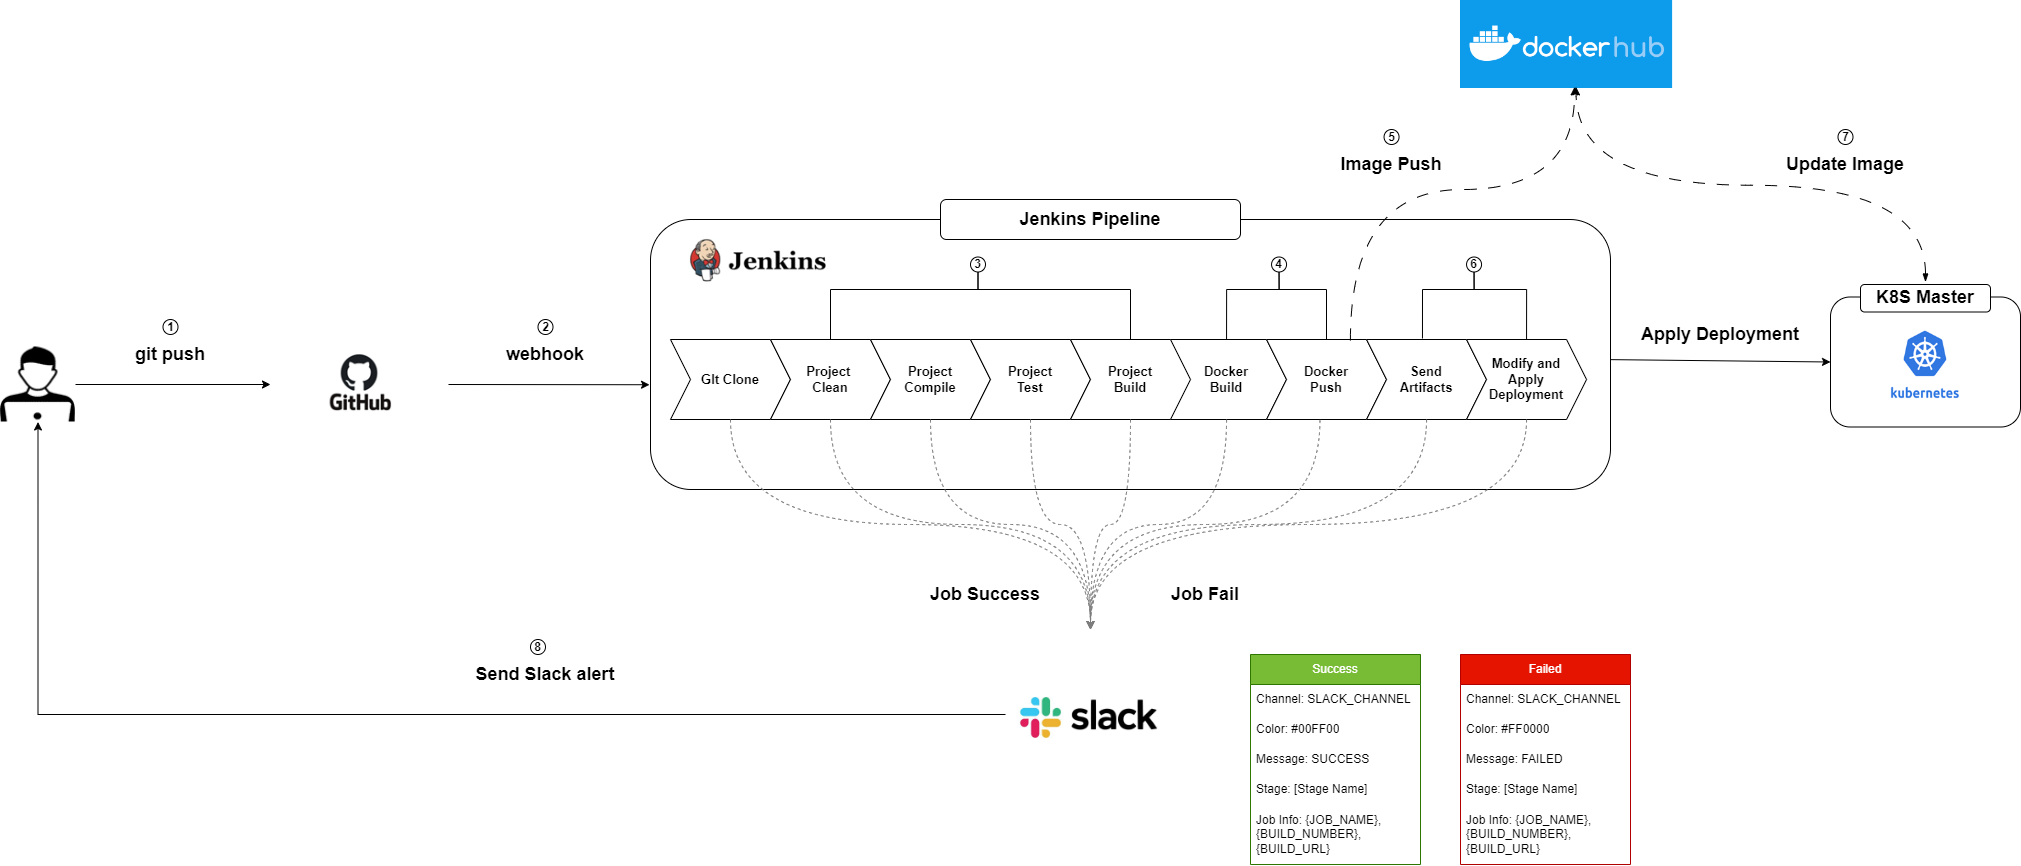
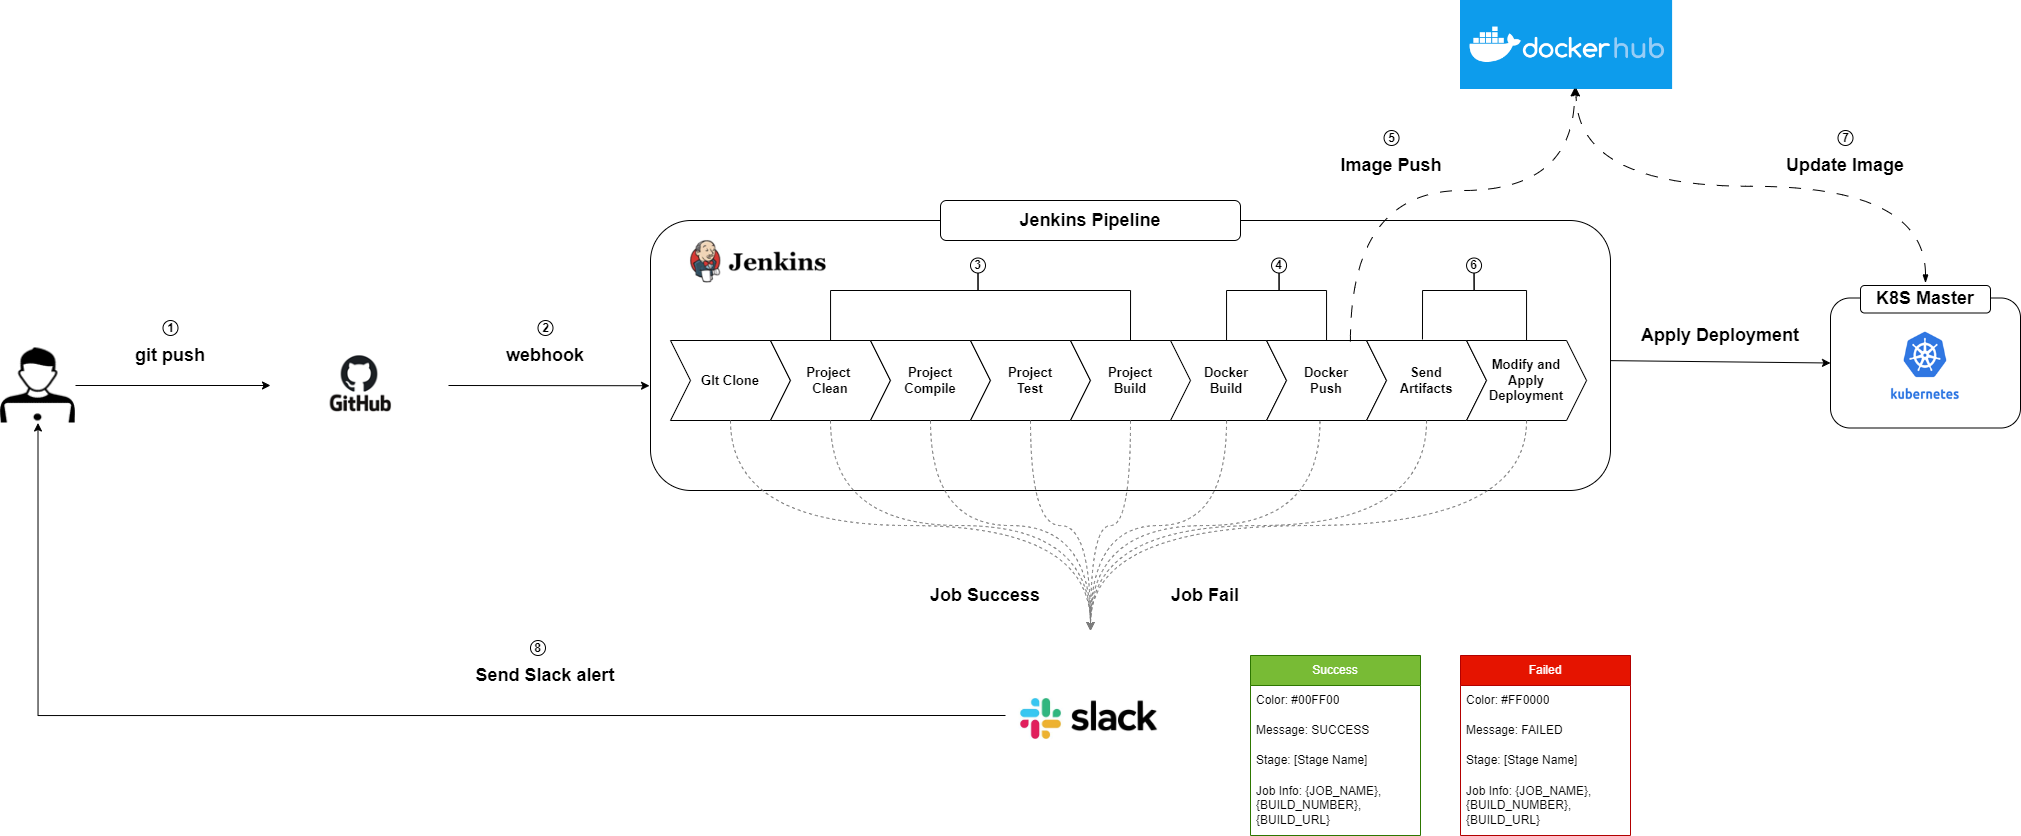
[Fix] CI/CD 리드미 파일 수정
- CI/CD 리드미 파일 수정

diff --git a/cicd/README.md b/cicd/README.md
@@ -2,24 +2,24 @@
 
 ### :sunny: **[플레이 데이터] 한화시스템 BEYOND SW캠프 2기 / Latest** :sunny:
 
-<br>
-
-<br>
+<br><br>
 
 
 
 ## 🤼♂팀원 소개
 
-<br><br>
+
 
 &nbsp;　&nbsp;　&nbsp;　&nbsp;　&nbsp;　&nbsp;　&nbsp;　&nbsp;　 🐻 **[이동규](https://github.com/PTCman)**&nbsp;　 🦁 **[양호신](https://github.com/Hosae0905)** &nbsp;　 🐶 **[김주연](https://github.com/jyk147369)** &nbsp;　 🐯 **[장대현](https://github.com/poil4291)** &nbsp;
 <br><br><br><br><br>
 
 
 ## ✔ 기술 스택
-<br>
+
 <div align="center">
-<img src="https://img.shields.io/badge/k8s-326CE5?style=for-the-badge&logo=#326CE5&logoColor=white" style="border-radius: 5px;">
+<img src="https://img.shields.io/badge/linux-FCC624?style=for-the-badge&logo=linux&logoColor=black" style="border-radius: 5px;">
+<img src="https://img.shields.io/badge/centos-262577?style=for-the-badge&logo=centos&logoColor=white" style="border-radius: 5px;">
+<img src="https://img.shields.io/badge/kubernetes-326CE5?style=for-the-badge&logo=kubernetes&logoColor=white" style="border-radius: 5px;">
 <img src="https://img.shields.io/badge/docker-2496ED?style=for-the-badge&logo=docker&logoColor=white" style="border-radius: 5px;">
 <img src="https://img.shields.io/badge/jenkins-D24939?style=for-the-badge&logo=jenkins&logoColor=white" style="border-radius: 5px;">
 <img src="https://img.shields.io/badge/git-F05032?style=for-the-badge&logo=git&logoColor=white" style="border-radius: 5px;">
@@ -30,48 +30,52 @@
 <img src="https://img.shields.io/badge/webhook-2088FF?style=for-the-badge&logo=webhook&logoColor=white" style="border-radius: 5px;">
 </div>
 <br>
-
-## 🖥 Lat32t 운영 환경
-
 <details>
     <summary>
-<span style="font-size:150%"> k8s 내부 아키텍처 </span></summary>
+<span style="font-size:150%"> 상세 기술 스택 </span></summary>
+- OS : CentOS 8, Linux
+- Container : Docker v26.0.0
+- Orchestration : Kubernetes v1.27.12
+- CNI : Calico v3.27.0
+- CI/CD : Jenkins v2.440.1
+- Monitoring : Prometheus, Grafana(dashboard_ID - 315)
+- Notification : Slack plugin
+</details>
 
+<br>
+
+## 🖥 Lat32t 운영 환경
+- CentOS 8 기반의 리눅스 가상 머신 5대로 구성된 k8s 클러스터를 구축
 - Master Node :1대
 - Worker Node: 4대
-- Node간 Connection을 위해 Calico CNI를 설치
+- k8s 클러스터 내부의 Pod 간 통신을 위한 네트워크 플러그인 위해 Calico CNI 설치
 - Service 생성시 LoadBalance Type 사용을 위해 Metallb를 설치
 - 모니터링 시스템으로 Prometheus와 Grafana 구축
 - 같은 네트워크 대역폭을 사용하여 하나의 k8s 클러스터를 구성하기 위해 네트워크 장치로 브릿지를 사용
 </br>
 <p align="center">
 <img width="80%" src="./img/k8s_system.png"></p>
-</details>
 
-<details>
-    <summary>
-<span style="font-size:150%"> k8s 전체 서비스 아키텍처 </span></summary>
-
-- 사용자가 lat32t 서비스에 접속하면 로드밸런서를 통해 화면이 보여지고 nginx 웹 서버의 프록시 설정에 따라 백엔드 서버와 통신하게 된다.
-- 사용자는 회원가입을 진행할 때 프로필 사진을 등록하게 되며 aws s3 스토리지에 저장되고 해당 이미지를 받아와서 확인할 수 있다.
-- 백엔드 서버는 nginx 웹 서버의 프록시 설정에 따라서 프론트엔드에서 요청을 받아 처리하게 된다. 이때 백엔드 서버의 설정은 미리 정의된 컨피그 맵을 통해서 이뤄진다.
-- 백엔드에서 DB와 통신을 할 경우 사전에 정의된 DB의 ClusterIP 서비스를 통해서 접근하게 되고 이때 DB 설정은 미리 정의된 컨피그맵을 통해서 이뤄진다.
-- DB는 Pod로 생성하게 되는데 이때 발생하는 데이터 휘발성 문제를 해결하기 위해 PV와 PVC를 구성하여 데이터가 휘발되는 문제를 예방한다.
-- 개발자는 개발을 진행하고 Pull Request를 작성하여 develop 브랜치에 merge가 이루어질 시 미리 지정된 젠킨스 서버로 Webhook을 진행하게 된다.
-- 젠킨스 서버에서는 사전에 작성된 파이프라인을 통해 각 프로젝트를 Build 하면서 도커 허브에 이미지를 푸쉬하는 작업을 진행하게 된다.
-- 젠킨스 파이프라인이 실행되는 동안 발생하는 성공 및 실패 이벤트는 slack 알림을 통해 개발자에게 알림이 전송된다.
+### Calico CNI
 <p align="center">
-<img width="80%" src="./img/k8s.png">
-</p>
-</details>
+<img width="80%" src="./img/cni_benchmark.jpg"><br>Calico CNI를 사용한 k8s 클러스터의 네트워크 성능 테스트 결과</p>
+- Calico CNI는 다른 k8s CNI에 비해 자원 소모량이 적어 한정적인 자원을 효율적으로 사용할 수 있다.
+- Calico CNI는 비교적 높은 네트워크 성능을 가지고 있어 Pod(kafka, SCDF, DB 등) 간의 통신이 빠르게 이뤄진다.
 
+### ✨모니터링 시스템
+- Prometheus와 Grafana를 이용한 모니터링 시스템 구축
+- Prometheus는 k8s 클러스터 내부에서 동작하며, 클러스터 내부의 master 노드와 worker 노드에 설치되어 있는 node-exporter를 통해 metric 데이터를 수집
+- Grafana는 Prometheus의 NodePort 주소로 연동하여 metric 데이터를 시각화
+- Grafana 대시보드를 통해 클러스터의 상태를 실시간으로 확인 가능 
+
+<br>
 
 ## ✨젠킨스 파이프라인(배포 시나리오)
 <details>
     <summary>
 <span style="font-size:150%"> 백엔드 배포 시나리오 </span></summary>
 <p align="center">
-<img width="80%" src="img/jenkins-backend.png">
+<img width="80%" src="img/jenkins-backend.png"></p>
 
 1. git merge
     - 각 브랜치에서 작업이 끝난 후 PR을 요청하여 develop 브랜치에 merge를 진행한다.
@@ -86,21 +90,16 @@
 4. Docker Build ~ Docker Push
     - Spring Boot 프로젝트에 포함되어 있는 도커 파일을 바탕으로 docker build를 하여 새로운 버전의 도커 이미지를 생성한다.
     - 생성된 도커 이미지를 docker push 명령어를 통해서 도커 허브에 이미지를 업로드한다.
-5. Send Artifacts ~ Apply Deployment
+5. Docker Image Push
+    - 도커 허브에 이미지를 업로드하게 되면 새로운 버전으로 업로드 된다. ex) lat32t:backend1.x
+6. Send Artifacts ~ Modify and Apply Deployment
     - 도커 허브에 이미지를 업로드하는 과정이 성공적으로 완료되면 k8s master 노드의 ssh 서버로 접속하여 기존의 Spring Boot 프로젝트에 있던
 백엔드 메니페스트 파일을 옮긴다.
     - k8s master 노드로 옮겨진 백엔드 메니페스트 파일을 kubectl apply 명령어를 통해서 적용시킨다.
-6. K8S Deployment Docker Image Update
+7. K8S Deployment Docker Image Update
     - 백엔드 메니페스트 파일이 적용되면 이전에 도커 허브로 올렸던 최신 버전의 도커 이미지를 바탕으로 새로운 Deployment를 생성하게 된다.
-7. Send Slack Alert
+8. Send Slack Alert
     - 앞선 모든 과정에서 성공 및 실패할 시 slack 알림을 보낸다.
-    - 성공과 실패 메시지에 포함되는 내용
-      - 슬랙 채널 명
-      - 슬렉 알림 색깔
-      - 성공 및 실패 메시지
-      - 어떤 파이프라인 stage에서 발생한 이벤트인지
-      - 현재 작업의 이름, 빌드 번호, 빌드 url
-</br>
 </br>
 </details>
 
@@ -108,7 +107,7 @@
     <summary>
 <span style="font-size:150%"> 프론트엔드 배포 시나리오 </span></summary>
 <p align="center">
-<img width="80%" src="img/jenkins-front.png">
+<img width="80%" src="img/jenkins-front.png"></p>
 
 1. git merge
    - 각 브랜치에서 작업이 끝난 후 PR을 요청하여 develop 브랜치에 merge를 진행한다.
@@ -122,18 +121,37 @@
 5. Docker Build ~ Docker Push
    - frontend 프로젝트에 포함되어 있는 도커 파일을 바탕으로 docker build를 하여 새로운 버전의 도커 이미지를 생성한다.
    - 생성된 도커 이미지를 docker push 명령어를 통해서 도커 허브에 이미지를 업로드한다.
-6. Send Artifacts ~ Apply Deployment
+6. Docker Image Push
+   - 도커 허브에 이미지를 업로드하게 되면 새로운 버전으로 업로드 된다. ex) lat32t:frontend1.x
+7. Send Artifacts ~ Modify and Apply Deployment
    - 도커 허브에 이미지를 업로드하는 과정이 성공적으로 완료되면 k8s master 노드의 ssh 서버로 접속하여 기존의 프론트엔드 프로젝트에 있던
    백엔드 메니페스트 파일을 옮긴다.
    - k8s master 노드로 옮겨진 프론트엔드 메니페스트 파일을 kubectl apply 명령어를 통해서 적용시킨다.
-7. K8S Deployment Docker Image Update
+8. K8S Deployment Docker Image Update
    - 프론트엔드 메니페스트 파일이 적용되면 이전에 도커 허브로 올렸던 최신 버전의 도커 이미지를 바탕으로 새로운 Deployment를 생성하게 된다.
-8. Send Slack Alert
+9. Send Slack Alert
    - 앞선 모든 과정에서 성공 및 실패할 시 slack 알림을 보낸다.
-   - 성공과 실패 메시지에 포함되는 내용
-      - 슬랙 채널 명
-      - 슬렉 알림 색깔
-      - 성공 및 실패 메시지
-      - 어떤 파이프라인 stage에서 발생한 이벤트인지
-      - 현재 작업의 이름, 빌드 번호, 빌드 url
+
+</details>
+
+<details>
+    <summary>
+<span style="font-size:150%"> Slack 알림 </span></summary>
+<p align="center">
+<img width="50%" src="img/slack_notification.png"></p>
+
+- 성공과 실패 메시지에 포함되는 내용
+  - 슬렉 알림 색깔 ex) Green, Red
+  - 성공 및 실패 메시지 ex) SUCCESSFUL, FAILED
+  - 어떤 파이프라인 stage에서 발생한 이벤트인지 ex) stage - 'Git Clone'
+  - 현재 작업의 이름, 빌드 번호, 빌드 url ex) Job Info - 'frontend-pipe[100]'(http://[Jenkins_URL]) 
+
+- 성공 메시지 <br>
+  - 파이프라인이 성공적으로 완료되었을 때 발생하는 메시지<br>
+  <img width="50%" src="img/slack_success.png">
+
+- 실패 메시지 <br>
+  - 파이프라인이 실패했을 때 발생하는 메시지<br>
+    <img width="50%" src="img/slack_fail.png">
+
 </details>
